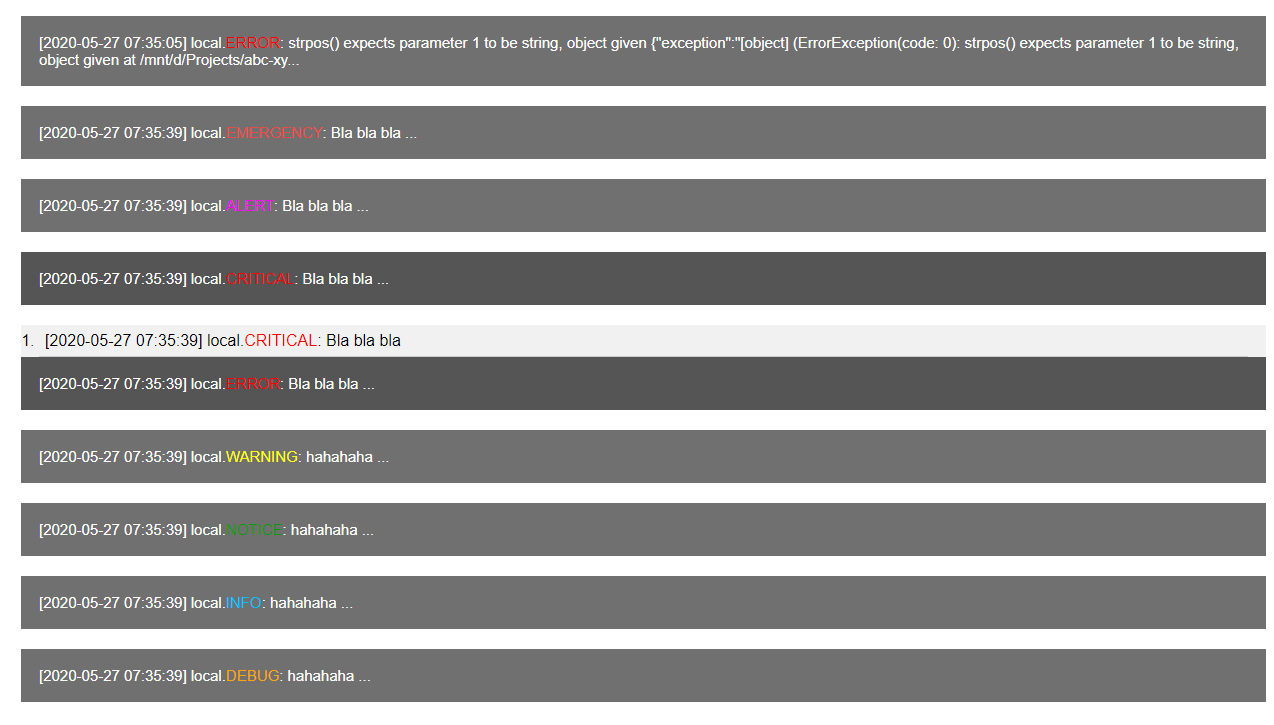
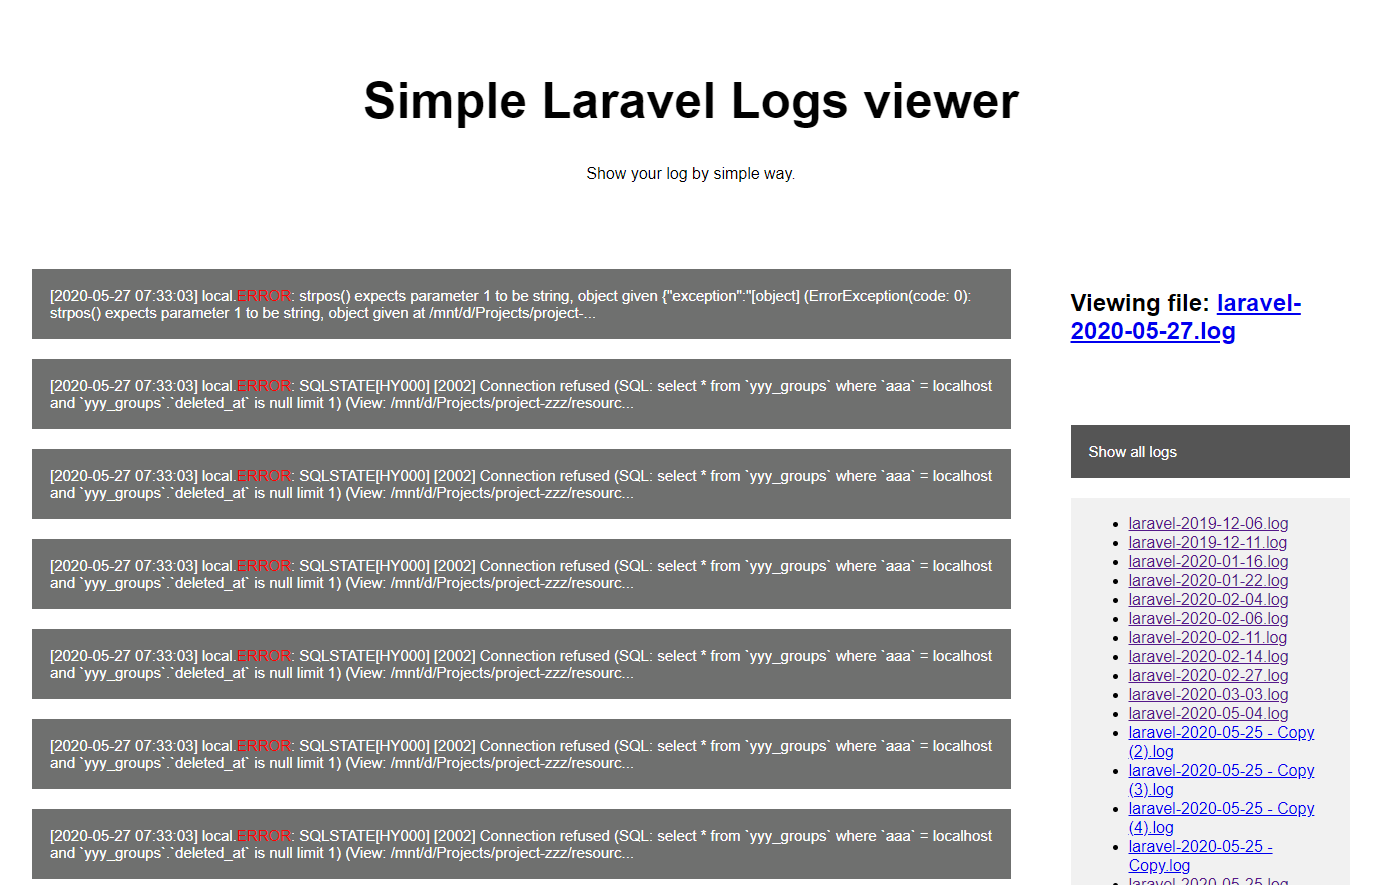
Update design UI, change logic, add download function

diff --git a/log-viewer.php b/log-viewer.php
@@ -1,9 +1,19 @@
 <?php
+/*
+ * Laravel logs viewer in single file
+ *
+ */
+
 # edit path to log files
 $logsFolder = '/path_to_project/storage/logs/';
+$logViewer = new LogViewer($logsFolder);
 
 if ($date = $_GET['date']) {
-    $logViewer = new LogViewer($logsFolder . $date);
+    $logViewer->read($date);
+}
+
+if ($file = $_GET['download']) {
+    $logViewer->download($file);
 }
 ?>
 <!doctype html>
@@ -13,8 +23,12 @@ if ($date = $_GET['date']) {
     <meta charset='utf-8'>
     <!--<meta http-equiv='refresh' content='5'>-->
     <style>
+        * {
+            box-sizing: border-box;
+        }
         body {
             font:1em/1.2 normal Arial, sans-serif;
+            padding: 10px;
         }
         .message {
             display: list-item;
@@ -66,51 +80,114 @@ if ($date = $_GET['date']) {
             overflow: hidden;
             background-color: #f1f1f1;
         }
+        .header {
+            padding: 30px;
+            text-align: center;
+            background: white;
+        }
+        .header h1 {
+            font-size: 50px;
+        }
+        .leftcolumn {
+            float: left;
+            width: 75%;
+        }
+        .rightcolumn {
+            float: left;
+            width: 25%;
+            padding-left: 20px;
+        }
+        .card {
+            background-color: white;
+            padding: 20px;
+            margin-top: 20px;
+        }
+        .row:after {
+            content: "";
+            display: table;
+            clear: both;
+        }
+        @media screen and (max-width: 800px) {
+            .leftcolumn, .rightcolumn {
+                width: 100%;
+                padding: 0;
+            }
+        }
+        @media screen and (max-width: 400px) {
+            .topnav a {
+                float: none;
+                width: 100%;
+            }
+        }
     </style>
 </head>
 <body>
-<button type="button" class="collapsible">All logs</button>
-<div class="content">
-    <?php
-        if ($handle = opendir($logsFolder)) {
-            while (false !== ($entry = readdir($handle))) {
-                if ($entry != '.' && $entry != '..' && $entry != '.gitignore') {
-                    echo '<a href="?date=' . $entry . '">' . $entry . '</a><br>';
-                }
-            }
-
-            closedir($handle);
-        }
-    ?>
+<div class="header">
+    <h1>Simple Laravel Logs viewer</h1>
+    <p>Show your log by simple way.</p>
 </div>
-<?php
-    if (isset($date)) {
-        ?>
-        <ul>
-            <li>Viewing log: <b> <?php echo $date; ?> </b></li>
-        </ul>
-        <?php
-    }
-?>
-<ol id='log'>
-    <?php
-        if (isset($date) && isset($logViewer)) {
-            foreach($logViewer->formattedLines as $index => $line):
-                if ($line['level'] != '') {
-                    if ($index != 0) {
-                        echo '</div>';
+<div class="row">
+    <?php if (isset($date) && $logViewer->formattedLines) { ?>
+        <div class="leftcolumn">
+            <div class="card">
+                <?php
+                foreach($logViewer->formattedLines as $index => $line):
+                    if ($line['level'] != '') {
+                        if ($index != 0) {
+                            echo '</div>';
+                        }
+
+                        echo '<button type="button" class="collapsible ' . $line['level'] . '">' . substr($line['message'], 0, 250) . '...</button>';
+                        echo '<div class="content">';
+                        echo '<span class="message level">' . $line['message'] . '</span>';
+                    } else {
+                        echo '<span class="message level">' . $line['message'] . '</span>';
                     }
 
-                    echo '<button type="button" class="collapsible ' . $line['level'] . '">' . substr($line['message'], 0, 250) . '...</button>';
-                    echo '<div class="content">';
-                    echo '<span class="message level">' . $line['message'] . '</span>';
-                } else {
-                    echo '<span class="message level">' . $line['message'] . '</span>';
+                    if ($index == count($logViewer->formattedLines) - 1) {
+                        echo '</div>';
+                    }
+                endforeach;
+                ?>
+            </div>
+        </div>
+        <div class="rightcolumn">
+            <div class="card">
+                <?php
+                if (isset($date)) {
+                    echo '<h2>Viewing file: <a href="?download=' . $date . '" target="_blank">' . $date . '</a></h2>';
                 }
-            endforeach;
-        }
-    ?>
-</ol>
+                ?>
+            </div>
+            <div class="card">
+                <button type="button" class="collapsible">Show all logs</button>
+                <div class="content">
+                    <ul>
+                        <?php
+                        foreach ($logViewer->logs() as $log) {
+                            echo '<li><a href="?date=' . $log . '">' . $log . '</a></li>';
+                        }
+                        ?>
+                    </ul>
+                </div>
+            </div>
+        </div>
+    <?php } else { ?>
+        <div>
+            <h2>Start from here</h2>
+            <ul>
+                <?php
+                foreach ($logViewer->logs() as $log) {
+                    echo '<li><a href="?date=' . $log . '">' . $log . '</a></li>';
+                }
+                ?>
+            </ul>
+        </div>
+    <?php } ?>
+</div>
+<div class="footer">
+    By <a href="https://github.com/thaont540" target="_blank">ThaoNT</a>
+</div>
 </body>
 <script>
     var coll = document.getElementsByClassName('collapsible');
@@ -131,22 +208,30 @@ if ($date = $_GET['date']) {
 </html>
 
 <?php
-/*
- * Laravel logs viewer in single file
- *
- */
 
-class LogViewer {
-
+class LogViewer
+{
     public $rawLines;
     public $formattedLines = [];
+    public $logsFolder;
 
-    function __construct($logFilePath) {
-        $this->rawLines = file($logFilePath, FILE_IGNORE_NEW_LINES | FILE_SKIP_EMPTY_LINES);
-        $this->formatLines();
+    function __construct($logsFolder)
+    {
+        $this->logsFolder = $logsFolder;
     }
 
-    function formatLines() {
+    function read($file)
+    {
+        if (file_exists($this->logsFolder . $file)) {
+            $this->rawLines = file($this->logsFolder . $file, FILE_IGNORE_NEW_LINES | FILE_SKIP_EMPTY_LINES);
+            $this->formatLines();
+        } else {
+            die('Error: File not found.');
+        }
+    }
+
+    function formatLines()
+    {
         for ($index = 0; $index < count($this->rawLines); $index++) {
             $line = $this->rawLines[$index];
             $this->formattedLines[$index] = [];
@@ -160,7 +245,8 @@ class LogViewer {
         }
     }
 
-    function checkLevel($message) {
+    function checkLevel($message)
+    {
         $levels = [
             'emergency',
             'alert',
@@ -179,6 +265,44 @@ class LogViewer {
         }
 
         return '';
+    }
+
+    function download($file)
+    {
+        $attachmentLocation = $this->logsFolder . $file;
+        if (file_exists($attachmentLocation)) {
+            header($_SERVER['SERVER_PROTOCOL'] . ' 200 OK');
+            header('Cache-Control: public');
+            header('Content-Type: text/plain');
+            header('Content-Transfer-Encoding: Binary');
+            header('Content-Length:' . filesize($attachmentLocation));
+            header('Content-Disposition: attachment; filename=' . $file);
+            readfile($attachmentLocation);
+            die($file . ' downloaded.');
+        } else {
+            die('Error: File not found.');
+        }
+    }
+
+    function logs()
+    {
+        $logs = [];
+        $ignore = [
+            '.',
+            '..',
+            '.gitignore',
+        ];
+        if ($handle = opendir($this->logsFolder)) {
+            while (false !== ($entry = readdir($handle))) {
+                if (!in_array($entry, $ignore)) {
+                    $logs[] = $entry;
+                }
+            }
+
+            closedir($handle);
+        }
+
+        return $logs;
     }
 }
 ?>

diff --git a/readme.md b/readme.md
@@ -1,9 +1,9 @@
 # Laravel log viewer
 
 ## How to use
-- Copy `log-viewer.php` file to your place what you want to run (example `public` folder)
-- Change line 3 to your logs project folder path:
-```diff
+- Copy `log-viewer.php` file to your place where you want to run (example `public` folder)
+- Change line 8 to your project logs folder path:
+```
 $logsFolder = '/path_to_project/storage/logs/';
 ```
 - Access link `https://your.domain/log-viewer.php`
